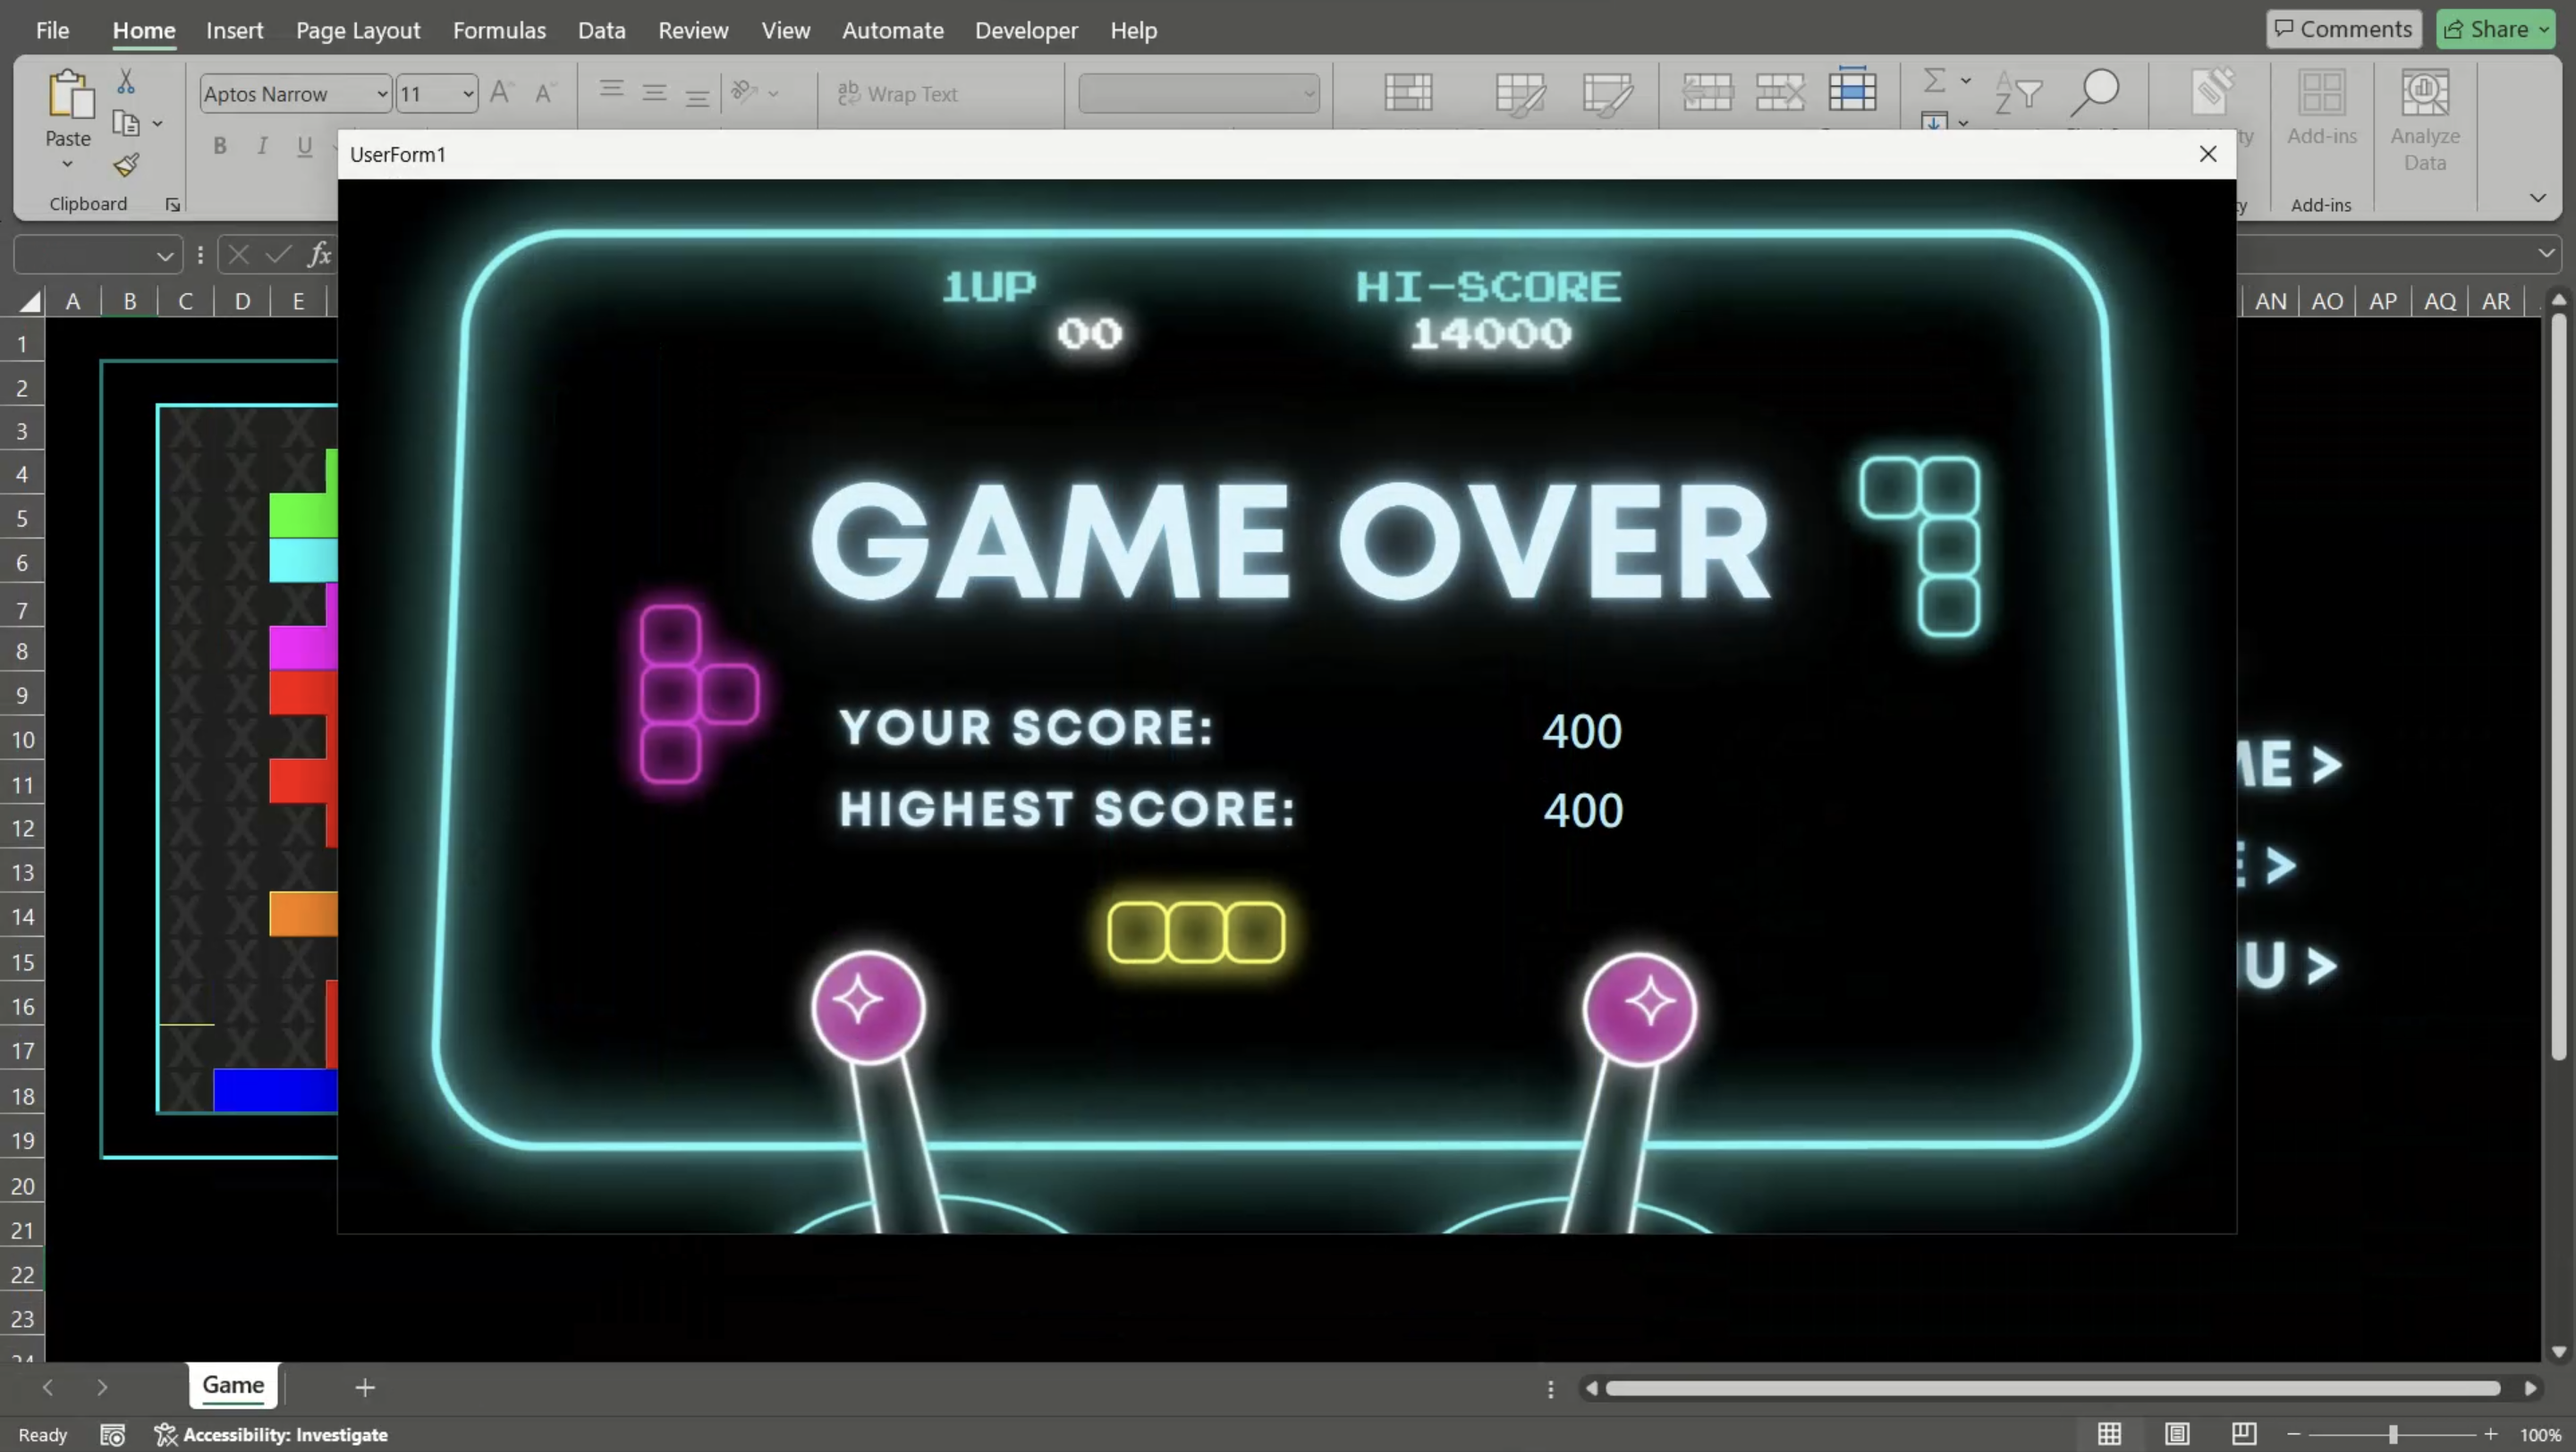
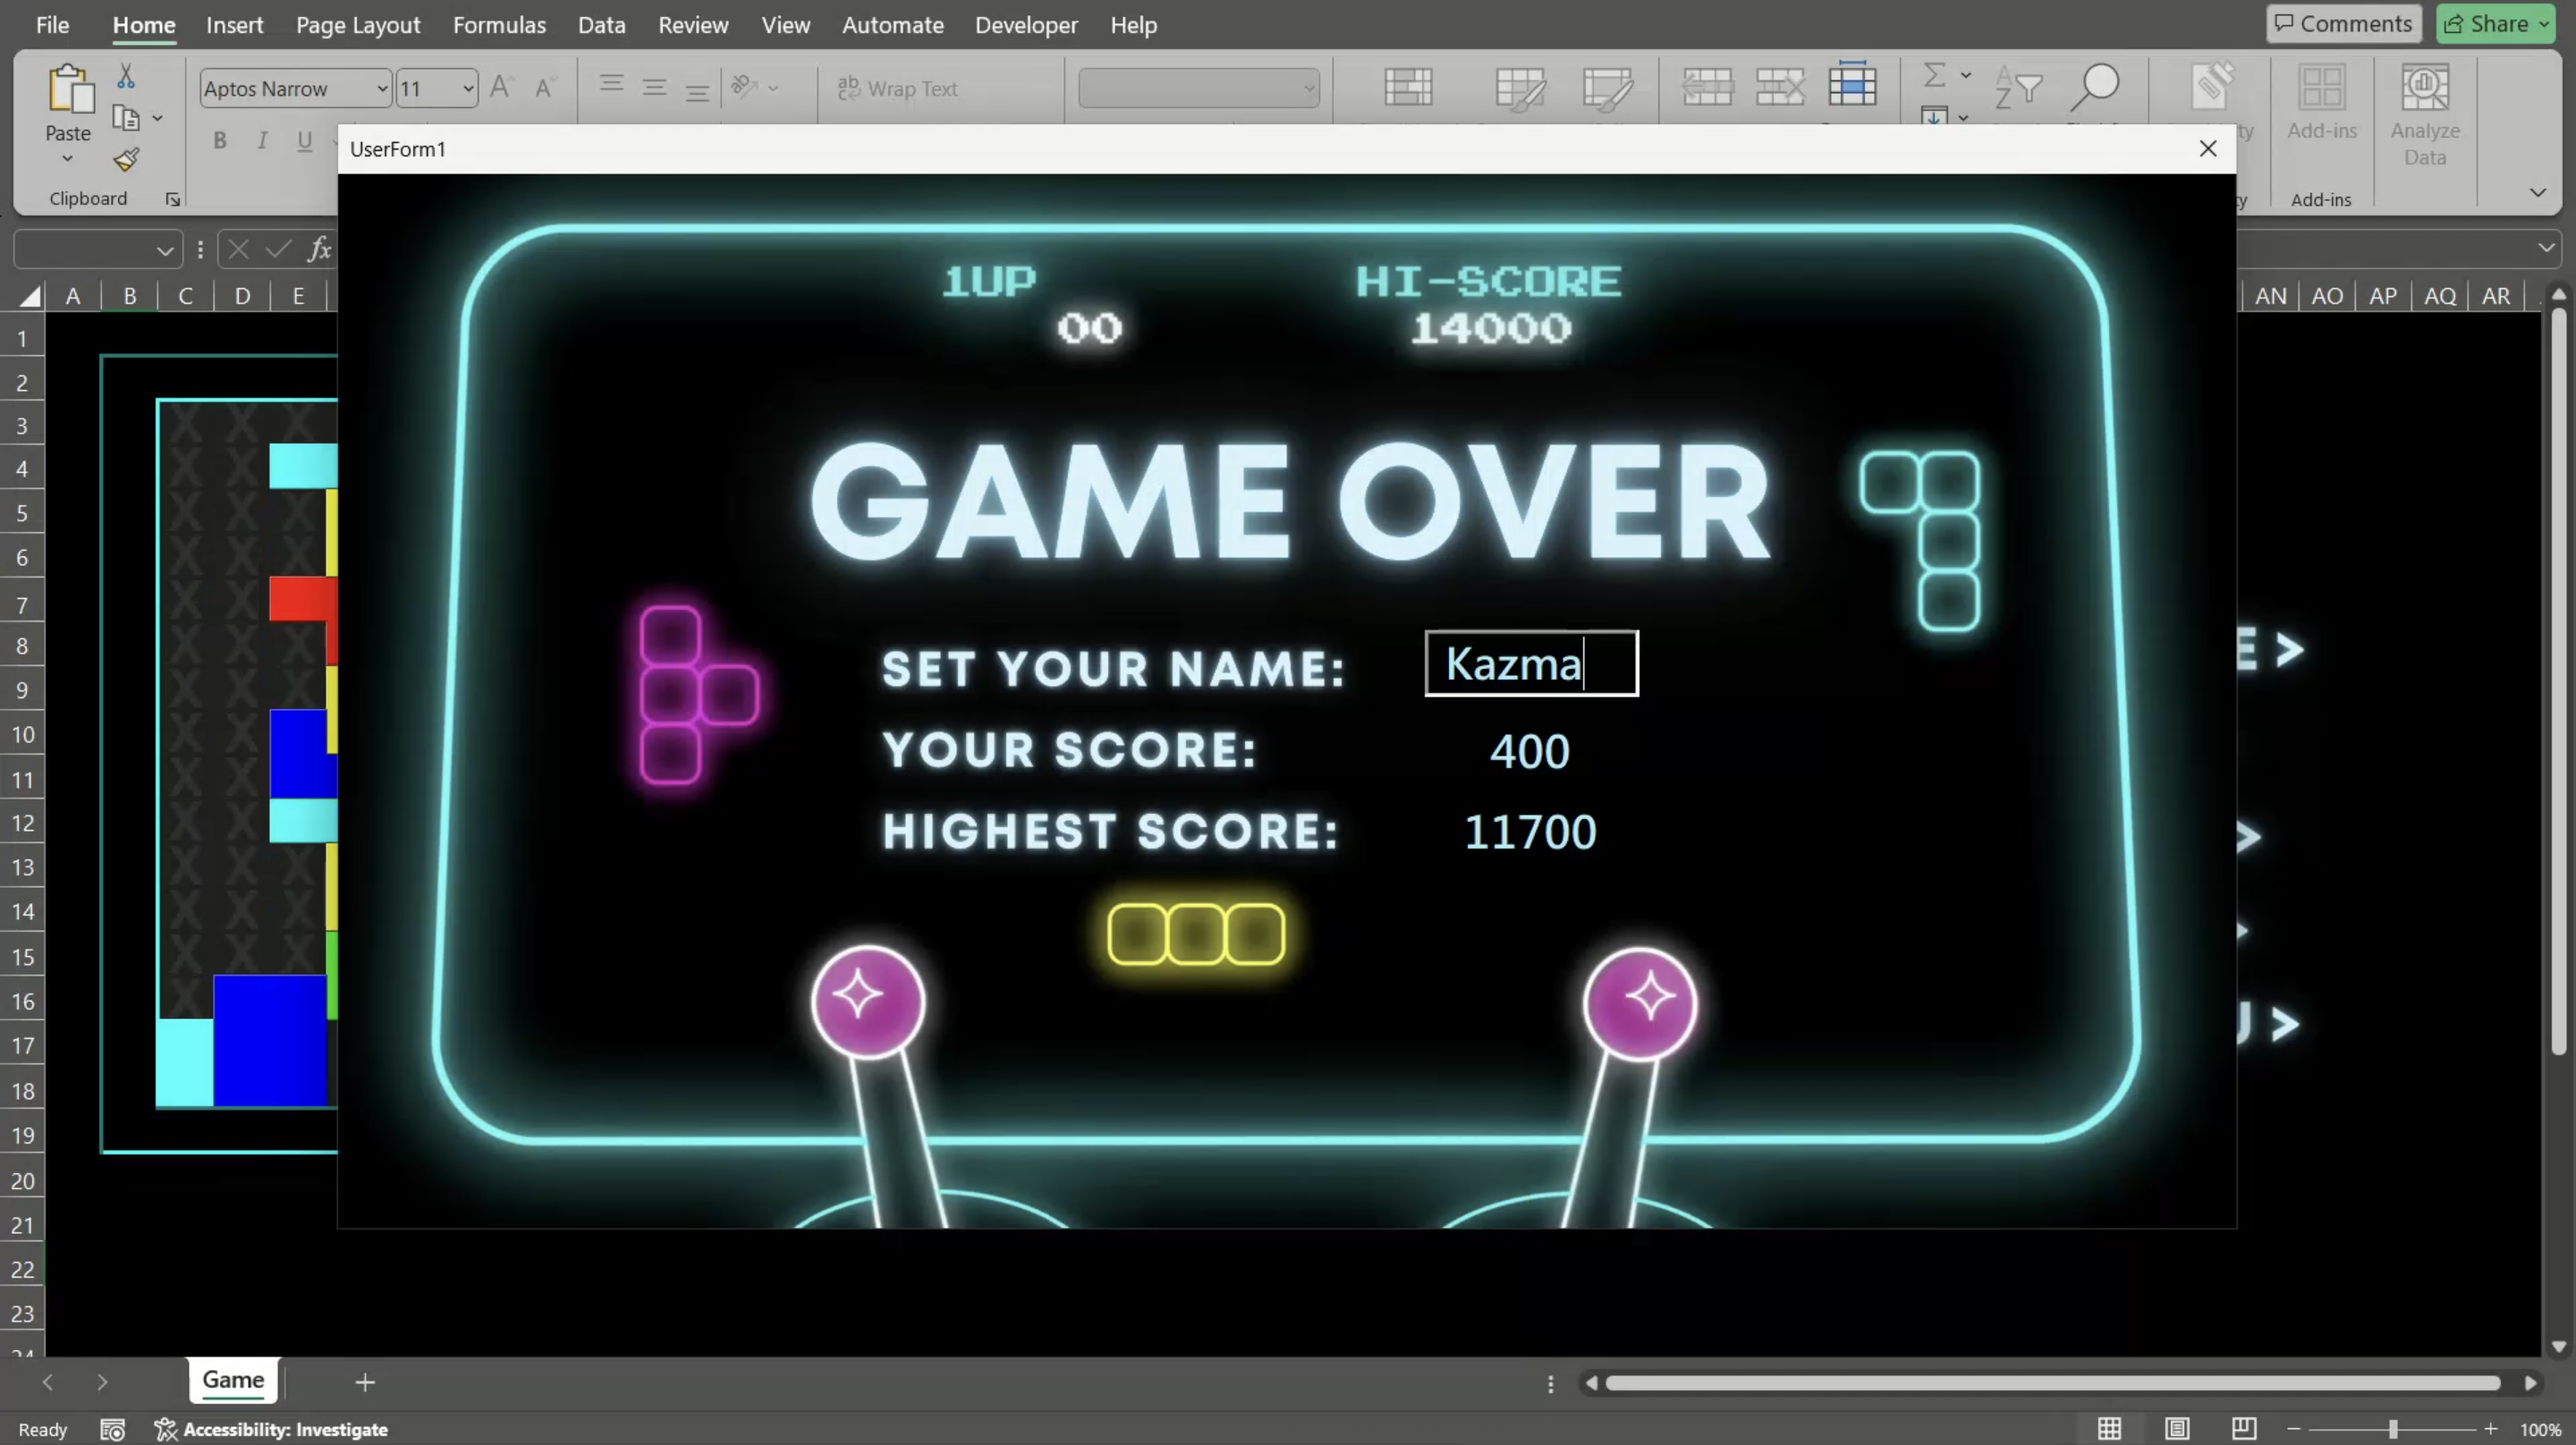
Update previews and add feature in README

diff --git a/README.md b/README.md
@@ -6,13 +6,11 @@ If you like it, please give us a star!⭐
 ## Brief introduction
 
 This project was initially developed with my classmate for a school course, but as we grew more enthusiastic about it, we decided to continue updating it.  
-Its name "Evil Rose" was inspired by the Chinese homophones of "Tetris".  
-Right, no particular reason XD.
+Its name "Evil Rose" was inspired by the Chinese homophones of "Tetris" XD
 
 ## Preview
 
-I personally like to include many beautiful images in the README, and this time is no exception.  
-Let's see what this game looks like:  
+Let's see what this game looks like:
 
 - Cover
   ![cover](./Picture/preview_cover.png)
@@ -20,10 +18,14 @@ Let's see what this game looks like:
   ![menu](./Picture/preview_menu.png)
 - Rule
   ![rule](./Picture/preview_rules.png)
-- Game1p
-  ![1p](./Picture/preview_1p.png)
+- Game
+  ![game](./Picture/preview_game.png)
 - Gameover
   ![gameover](./Picture/preview_gameover.png)
+- Leaderboard
+  ![rank](./Picture/preview_rank.png)
+- Music
+  ![music](./Picture/preview_music.png)
 
 ## Installation and Running
 
@@ -34,9 +36,14 @@ Let's see what this game looks like:
 
 It's just that EZ.😌
 
+## Features
+
+We know that Tetris is very popular nowadays, with many great websites and apps available. To introduce a new challenge, we've changed the number of columns to eight, which disrupts many common patterns. Additionally, we do not group the pieces into sets of seven, allowing the same piece the chance to appear consecutively. This tests the player's observation skills and strategic thinking. However, we do offer three opportunities to change the order of the pieces, so please seize the chance and have fun.  
+Try to beat us, we've thrown down the gauntlet to you. 😼
+
 ## Controls
 
-- Read the `How to play` page. 📖
+- Read the `How to play` game page. 📖
 
 ## Development
 
@@ -44,9 +51,11 @@ Writing a game in VBA might just be one of the most masochistic things to do in 
 
 I primarily use Canva for the art design, and I've even started a 30-day trial for this, but I'm considering a long-term subscription moving forward. 🤔
 
+Also, ensure IsDebugMode in ThisWorkbook is set to true before making any changes, as we restrict player interaction with Excel during gameplay to avoid crashes.
+
 ## Contributions
 
-Feel free to send a PR if you want to update something~    
+Feel free to send a PR if you want to update something~  
 Just one thing to remember: make sure to run `ExportModules` under `ModExport` before you update. This way, we can clearly see what specific changes you've made.
 
 ## License and Permissions
